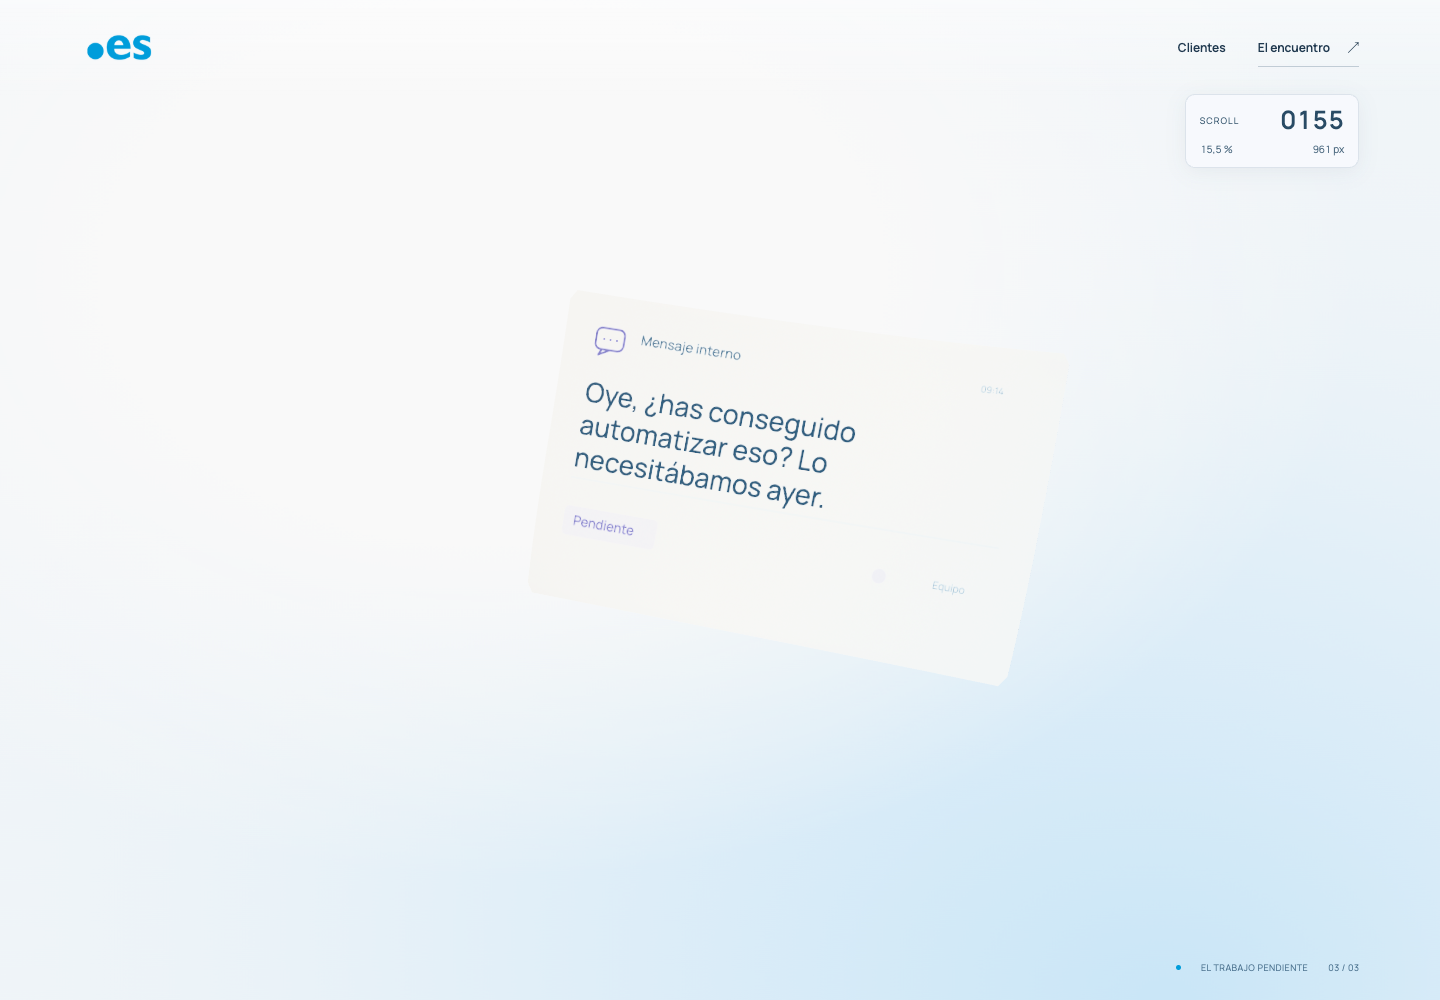
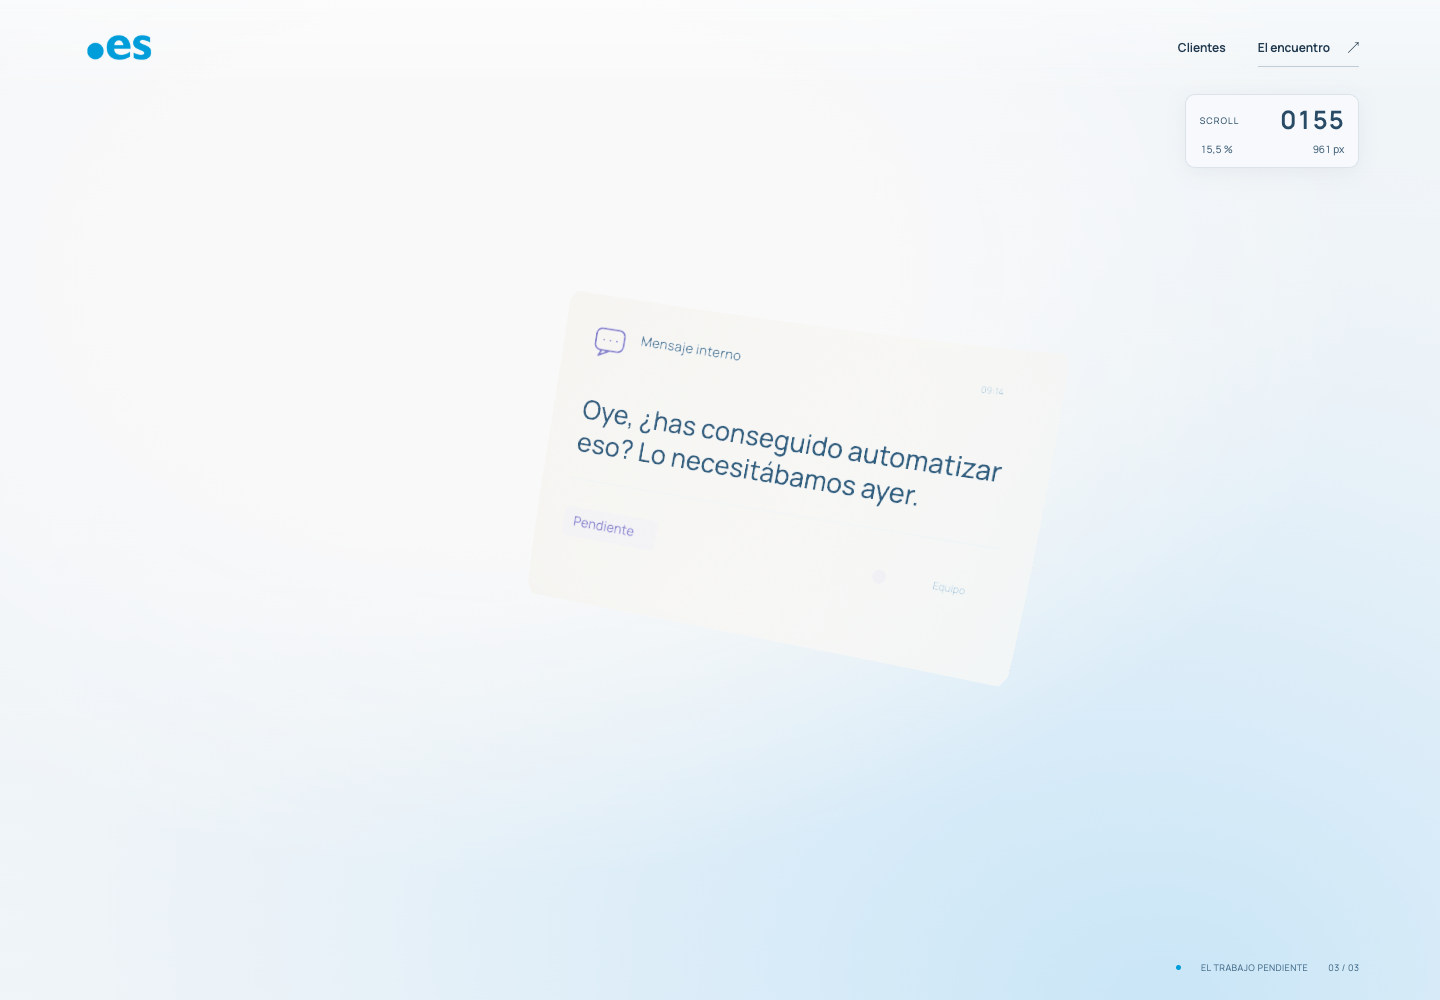
Improve first message paper text fit

Changed region(s): [[0.4062, 0.372, 0.6875, 0.527]]

diff --git a/src/section-three/art.js b/src/section-three/art.js
@@ -96,7 +96,8 @@ export function surfaceTexture(kind, variant = 0, resolution = 1024, content = n
     const secondary = kind === 'document' ? `${(1.2 + variant * .3).toFixed(1).replace('.', ',')} MB · Versión ${String(variant + 1).padStart(2, '0')}` : ['Pendiente de revisión', 'Compartido con el equipo', 'Esperando confirmación', 'Recibido esta mañana', 'En curso'][variant % 5];
     const text = [subject, secondary];
     if (content) {
-      ctx.font = '500 56px "Manrope", Arial';
+      const fontSize = 54, leading = 68;
+      ctx.font = `500 ${fontSize}px "Manrope", Arial`;
       const rows = []; let row = '';
       for (const word of subject.split(/\s+/)) {
         const next = row ? `${row} ${word}` : word;
@@ -104,7 +105,8 @@ export function surfaceTexture(kind, variant = 0, resolution = 1024, content = n
         else row = next;
       }
       if (row) rows.push(row);
-      rows.forEach((text, index) => line(ctx, text, 62, 222 + index * 68, 56, INK, 500));
+      const firstBaseline = 290 - (rows.length - 1) * leading / 2;
+      rows.forEach((text, index) => line(ctx, text, 62, firstBaseline + index * leading, fontSize, INK, 500));
     } else {
       line(ctx, text[0], 62, 252, text[0].length > 27 ? 34 : 40, INK, 500); line(ctx, text[1], 62, 311, 27, '#7793a7');
     }

diff --git a/docs/section-three-integration/README.md b/docs/section-three-integration/README.md
@@ -2,7 +2,7 @@
 
 La escena aprobada de papeles aparece después de la ciudad (`#confianza`), en `#posibilidades`. Sustituye el marcador anterior «La inteligencia, puesta en práctica» y utiliza la cabecera y el indicador de capítulo de la web.
 
-La primera tarjeta es un **mensaje interno**: «Oye, ¿has conseguido automatizar eso? Lo necesitábamos ayer.», con el icono de conversación y el estado «Pendiente» del resto de mensajes. La frase se compone como un solo bloque, con la misma tipografía, tamaño y color en todas sus líneas. Empieza a entrar a los **90 px de scroll local**, independientemente del tamaño de pantalla. Desde el marcador **0180** se aleja y permanece al fondo.
+La primera tarjeta es un **mensaje interno**: «Oye, ¿has conseguido automatizar eso? Lo necesitábamos ayer.», con el icono de conversación y el estado «Pendiente» del resto de mensajes. La frase se compone como un solo bloque de dos líneas, con la misma tipografía, tamaño y color en ambas. El texto aprovecha hasta el 85 % del ancho y se centra verticalmente en su zona de lectura. Empieza a entrar a los **90 px de scroll local**, independientemente del tamaño de pantalla. Desde el marcador **0180** se aleja y permanece al fondo.
 
 ## Revisar
 
